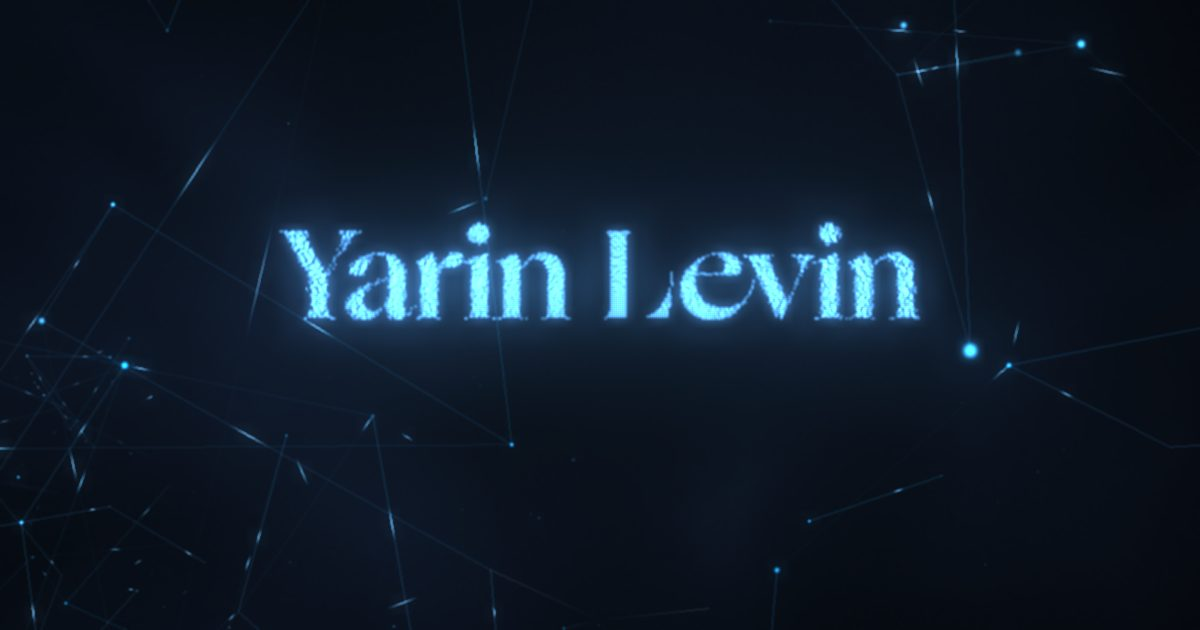
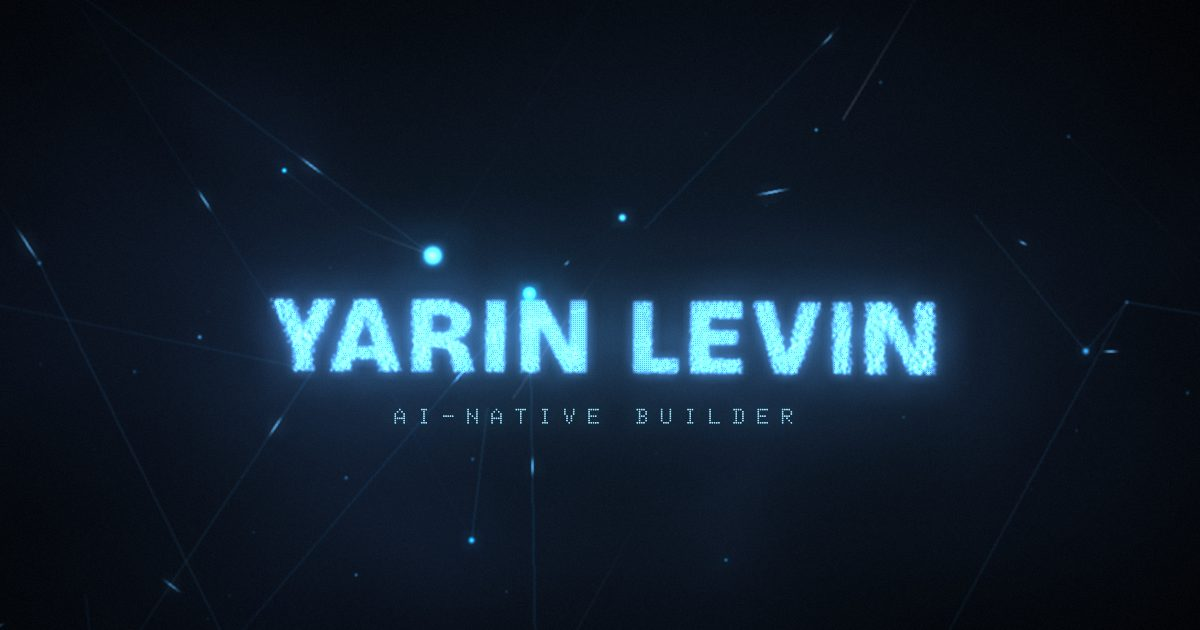
launch: SmartCut ships offline (no dead link), OG card re-captured from the v16 opening; desktop walk-through recorded
- profile.js: smartcut url '' + offline: true; the SHADIEZ also-row shows GitHub
  only and the noscript path links the repo. profile.test.js accepts the flag.
- public/og.jpg: 1200×630 capture of the live opening (Bricolage wordmark +
  AI-Native Builder), replaces the pre-v15 serif card. 34 → 44 KB.
- Ledgers: desktop walk-through of all 11 stops as a fresh visitor, prod build
  clean; custom domain / profile URLs / capture video left as Yarin's items.

diff --git a/index.html b/index.html
@@ -374,7 +374,7 @@
           <li><a href="https://bgu-study-organizer.vercel.app">TEEPO</a> — Hebrew-RTL study platform; students sign in and use it all semester.
               Also <a href="https://aerocy-landing.vercel.app">AeroCy</a>, a bilingual business site shipped within days.</li>
           <li><a href="https://shadiez.vercel.app">SHADIEZ</a> — Paid client landing page for a premium beach-shade brand, in production.
-              Also <a href="https://smart-cut-gamma.vercel.app">SmartCut</a>, self-hosted booking that replaced Wix Bookings for a grooming studio.</li>
+              Also <a href="https://github.com/yarinlevin18-ai/smartcut">SmartCut</a>, self-hosted booking that replaced Wix Bookings for a grooming studio.</li>
         </ul>
         <p>Also: Worldiez, Mentorship, dira-lease, SecScan, LifeRPG, BodyLoop, Kiara’s Club, Drift Ghost, Atlas Command Center
            and the labs: motion-lab, three-lab, transition-lab, AnimationStudio, design-scraper.</p>

diff --git a/tests/profile.test.js b/tests/profile.test.js
@@ -54,7 +54,11 @@ test('ids are unique and the ids render.js hardcodes exist', () => {
 
 test('public entries have live url and repo; every img matches its id', () => {
   for (const p of featured) {
-    if (!p.private) { assert.match(p.url, /^https:\/\//, `${p.id} url`); assert.match(p.repo, /^https:\/\/github\.com\//, `${p.id} repo`); }
+    if (!p.private) {
+      // `offline: true` marks a public build whose deployment is down; it ships without a live link
+      if (p.offline) assert.equal(p.url, '', `${p.id} offline url`); else assert.match(p.url, /^https:\/\//, `${p.id} url`);
+      assert.match(p.repo, /^https:\/\/github\.com\//, `${p.id} repo`);
+    }
     assert.equal(p.img, `/previews/${p.id}.webp`, `${p.id} img`);
   }
 });

diff --git a/src/content/profile.js b/src/content/profile.js
@@ -219,7 +219,7 @@ export const PROFILE = {
         decision: 'Self-hosted slot booking on Supabase with an approval workflow and customer self-service.',
         outcome: 'The studio dropped Wix Bookings and stopped rescheduling by phone.',
         stack: 'Next.js 14 · TypeScript · Supabase · Tailwind',
-        url: 'https://smart-cut-gamma.vercel.app', // ⏳ deployment returned 404 on 2026-09-08 — redeploy before launch
+        url: '', offline: true, // ⏳ smart-cut-gamma.vercel.app 404s (2026-09-08, still 2026-09-13); restore the URL and drop `offline` once redeployed
         repo: 'https://github.com/yarinlevin18-ai/smartcut',
       },
       {

diff --git a/BUILD_PLAN.md b/BUILD_PLAN.md
@@ -196,14 +196,25 @@ Nine changes from a fresh walk-through of the live v15 flight:
    (`applyPortraitPoses`). Re-tune in Director Mode → Copy config if needed.
 2. **Confirm the three proof numbers** in `profile.js` `proof[]` before launch.
 3. **X handle** — `links.x` is commented out pending confirmation with Yarin.
-4. **SmartCut redeploy** — `smart-cut-gamma.vercel.app` returned 404 on 2026-09-08.
+4. **SmartCut redeploy** — `smart-cut-gamma.vercel.app` still 404 on
+   2026-09-13; the entry now carries `url: '', offline: true` so the SHADIEZ
+   "also" row shows only GitHub and the noscript path links the repo. Restore
+   the URL and drop `offline` once it's back.
 5. ~~**Formal contrast pass**~~ ✅ 2026-09-13, see Phase E. Lighthouse mobile on the
    deployed site, 2026-09-12 after WebP + labels: perf 84–88 / a11y 100 /
    best-practices 100 / SEO 100, 100 % legible text (was 82 / 100 / 96 / 100, 20 %).
-6. **Phase G leftovers:** capture video, custom domain, URL on CV/LinkedIn/GitHub.
+6. **Phase G leftovers:** ~~OG card~~ ✅ 2026-09-13 (re-captured from the
+   v16 opening: Bricolage wordmark + "AI-Native Builder", 1200×630, 44 KB).
+   Still Yarin's: custom domain (then update `canonical`/`og:url`/JSON-LD in
+   `index.html` and `links.site`), URL on LinkedIn/GitHub profiles (the print
+   CV already carries it), optional capture video.
 7. ~~**Housekeeping:** decide on porting sound~~ ✅ 2026-09-13 — dropped;
    see Phase D. Sound commit kept as tag `archive/phase-b-d-sound-2026-07`.
 8. Optional trust signal: one genuine SHADIEZ client line, or none.
+
+9. ~~**Desktop walk-through**~~ ✅ 2026-09-13 on the dev build at 1440×900 as
+   a fresh visitor (storage cleared): all 11 stops render, panels + text blocks
+   correct, no console errors from shipped code, production build clean.
 
 ## Risks / watch-items
 - **Save migrations** — every `DEFAULT_BEATS` change needs a version bump +

diff --git a/CLAUDE.md b/CLAUDE.md
@@ -163,12 +163,17 @@ hard-refresh if a change doesn't show.
    portrait pose per project stop (`applyPortraitPoses` in `main.js`).
 2. **Confirm the three proof numbers** in `profile.js` `proof[]` before launch.
 3. **X handle** — `links.x` is commented out pending confirmation.
-4. **SmartCut redeploy** — `smart-cut-gamma.vercel.app` returned 404 on 2026-09-08.
+4. **SmartCut redeploy** — `smart-cut-gamma.vercel.app` returned 404 on
+   2026-09-08 (still on 09-13). Shipped as `url: '', offline: true` in
+   `profile.js` (no live link, GitHub only); restore the URL and drop `offline`
+   once redeployed. `tests/profile.test.js` knows the flag.
 5. **Real-phone pass** — deployed site (contrast audit done 2026-09-13, all
    visitor text ≥ 4.5:1 on the void), Lighthouse mobile 2026-09-12 (after
    WebP + label fix): perf 84–88 / a11y 100 / best-practices 100 / SEO 100,
    100 % legible text, 610 KiB total. Still to do on a physical phone.
-6. ~~Housekeeping~~ done 2026-09-13: sound is **dropped** for good. The old
+6. **Custom domain** — Yarin's call; when set, update `canonical` / `og:url`
+   / JSON-LD in `index.html` and `links.site`. OG card re-captured 2026-09-13.
+7. ~~Housekeeping~~ done 2026-09-13: sound is **dropped** for good. The old
    Web Audio commit survives only as tag `archive/phase-b-d-sound-2026-07`;
    the stale branches were deleted. Don't reintroduce it.
 
